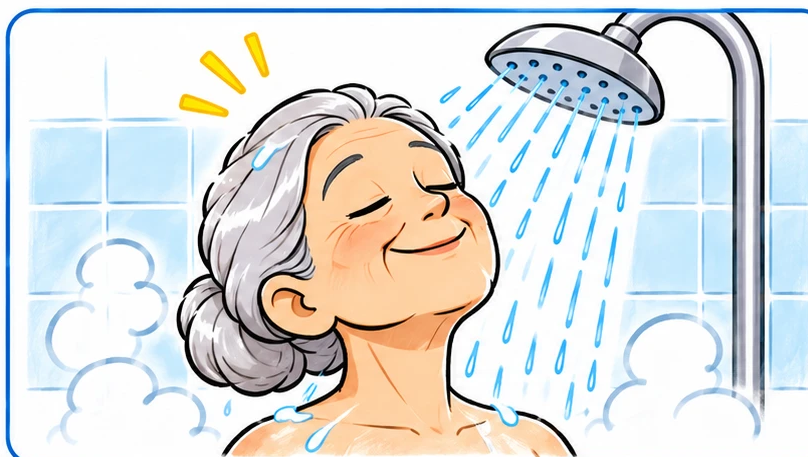
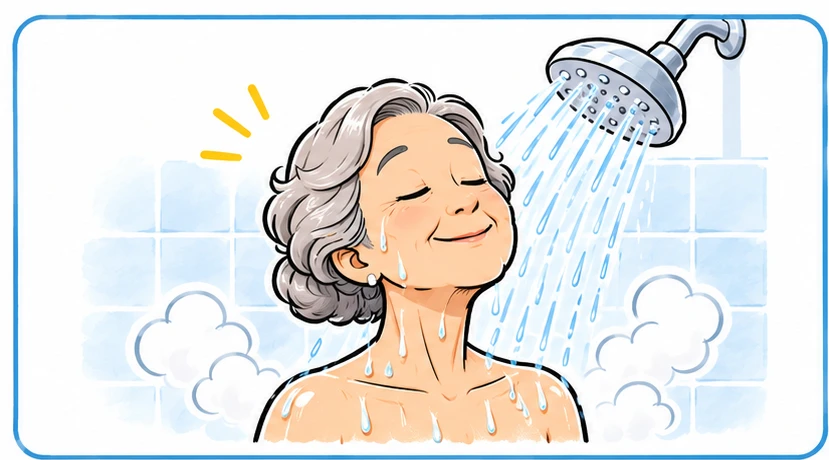
ducha_60: new part 1 scene sheets, retune overlays
Claude-Session: https://claude.ai/code/session_01D4mcJbxSFfSwpu6NteTqz4

diff --git a/projects/ducha_60/verdad1.html b/projects/ducha_60/verdad1.html
@@ -17,7 +17,7 @@ const bp=(x,y)=>[bl+x*bs, bt+y*bs];
 
 // 1 · costumbre: levantarse y entrar en la ducha
 {const B=Beat(C('nadie'),C('lavamos')); const p=Panel(B,'s_dawn',{from:[.25,.5,1.0],to:[.65,.55,1.14]});
- p.draw=(c,t)=>rays(c,t,{x:140,y:120});
+ p.draw=(c,t)=>rays(c,t,{x:215,y:128});
  Cap(B,'Una costumbre que <span class="hl">nadie cuestiona</span>',{cx:960,cy:965,size:72,t0:B.a+0.4,pill:true});}
 
 // 2 · cuanto más nos lavamos…
@@ -38,7 +38,7 @@ const bp=(x,y)=>[bl+x*bs, bt+y*bs];
 
 // 5 · al secarte, piernas tirantes
 {const B=Beat(C('imagina1'),C('picor1')); const p=Panel(B,'s_dry_leg',{from:[.4,.4,1.0],to:[.7,.7,1.2]});
- p.draw=(c,t)=>{if(t>B.a+3.4)sparks(c,t,{x:650,y:300,s:1.1});};
+ p.draw=(c,t)=>{if(t>B.a+3.4)sparks(c,t,{x:570,y:270,s:1.1});};
  Cap(B,'Al secarte: <span class="hl">piernas tirantes</span>',{cx:960,cy:965,size:74,t0:B.a+3.0,pill:true});}
 
 // 6 · un rato después, el picor
@@ -54,7 +54,7 @@ const bp=(x,y)=>[bl+x*bs, bt+y*bs];
 
 // 8 · ¿la edad? → observa cómo te duchas
 {const B=Beat(C('atribuirlo'),C('grasa')-1.2); const p=Panel(B,'s_mirror',{from:[.5,.5,1.0],to:[.35,.65,1.2]});
- p.draw=(c,t)=>{sparks(c,t,{x:345,y:300,s:1.0});};
+ p.draw=(c,t)=>{sparks(c,t,{x:340,y:300,s:1.0});};
  Cap(B,'No es solo la edad: <span class="hl">observa cómo te duchas</span>',{cx:960,cy:965,size:66,t0:C('observar'),pill:true});
  Cap(B,'¿La edad?',{cx:960,cy:965,size:70,t0:B.a+0.2,pill:true,t1:C('observar')-0.3});}
 
@@ -98,9 +98,9 @@ const bp=(x,y)=>[bl+x*bs, bt+y*bs];
 
 // 14 · poca actividad vs más actividad (split)
 {const B=Beat(C('apenas'),C('adaptarse'));
- Panel(B,'s_tea',{x:500,y:470,w:880,from:[.5,.5,1],to:[.45,.45,1.1]}).draw=(c,t)=>steam(c,t,{x:345,y:110,w:30,n:3,r:8,rise:60});
+ Panel(B,'s_tea',{x:500,y:470,w:880,from:[.5,.5,1],to:[.45,.45,1.1]}).draw=(c,t)=>steam(c,t,{x:300,y:125,w:30,n:3,r:8,rise:60});
  const g=Panel(B,'s_garden',{x:1420,y:470,w:880,from:[.5,.5,1],to:[.6,.45,1.12],t0:C('caminar')});
- g.draw=(c,t)=>{c.save();c.translate(600,250);c.rotate(Math.sin(t*1.6)*0.02);c.restore(); drops(c,t,{x:360,y:60,w:60,h:80,n:3,t0:C('caminar'),s:0.5,speed:0.7});};
+ g.draw=(c,t)=>{c.save();c.translate(600,250);c.rotate(Math.sin(t*1.6)*0.02);c.restore(); drops(c,t,{x:420,y:80,w:60,h:80,n:3,t0:C('caminar'),s:0.5,speed:0.7});};
  Cap(B,'Apenas suda,<br>pasa el día en casa',{cx:500,cy:900,size:58,t0:B.a+0.4,pill:true});
  Cap(B,'Camina, cuida el jardín,<br><span class="hl">suda más</span>',{cx:1420,cy:900,size:58,t0:C('jardin'),pill:true});
  Cut(B,'antonio_walk',{cx:1760,cy:1060,h:300,t0:C('caminar'),dir:'r',amp:6,period:0.7,tilt:2});}
@@ -117,7 +117,7 @@ const bp=(x,y)=>[bl+x*bs, bt+y*bs];
 
 // 16 · no significa dejar de lavarse
 {const B=Beat(C('nosignifica'),C('manos')-0.4); const p=Panel(B,'s_shower_soft',{from:[.5,.45,1.0],to:[.4,.5,1.12]});
- p.draw=(c,t)=>{water(c,t,{x0:600,y0:90,x1:520,y1:420,spread:220,n:28}); steam(c,t,{x:120,y:420});};
+ p.draw=(c,t)=>{water(c,t,{x0:590,y0:70,x1:470,y1:380,spread:220,n:28}); steam(c,t,{x:120,y:420});};
  Cap(B,'No significa <span class="hl">dejar de lavarse</span>',{cx:960,cy:965,size:74,t0:B.a+0.3,pill:true});}
 
 // 17 · zonas de atención diaria (body map)
@@ -142,7 +142,7 @@ const bp=(x,y)=>[bl+x*bs, bt+y*bs];
 
 // 19 · si disfrutas y tu piel está bien → sigue
 {const B=Beat(C('detalle'),C('breves')); const p=Panel(B,'s_tea',{from:[.4,.4,1.0],to:[.35,.3,1.12]});
- p.draw=(c,t)=>steam(c,t,{x:345,y:110,w:30,n:3,r:8,rise:60});
+ p.draw=(c,t)=>steam(c,t,{x:300,y:125,w:30,n:3,r:8,rise:60});
  Cap(B,'¿Te gusta a diario y tu piel está bien? <span class="hl">Sigue</span>',{cx:960,cy:965,size:60,t0:C('disfrutas')+0.5,pill:true});
  const s=Svg(B); Draw(B,s,tick(1700,200,2),{t0:C('disfrutas')+2.5,dur:0.4,stroke:'#22a35a',w:18});}
 
@@ -199,7 +199,7 @@ const bp=(x,y)=>[bl+x*bs, bt+y*bs];
 
 // 27 · mira tu vida cotidiana, no reglas ajenas  → teaser Verdad 2
 {const B=Beat(C('cotidiana')-0.2,C('verdad2'),{exit:'fade'});
- Panel(B,'s_tea',{x:520,y:440,w:820,from:[.5,.5,1],to:[.5,.5,1.06]}).draw=(c,t)=>steam(c,t,{x:345,y:110,w:30,n:3,r:8,rise:60});
+ Panel(B,'s_tea',{x:520,y:440,w:820,from:[.5,.5,1],to:[.5,.5,1.06]}).draw=(c,t)=>steam(c,t,{x:300,y:125,w:30,n:3,r:8,rise:60});
  Panel(B,'s_garden',{x:1400,y:440,w:820,from:[.5,.5,1],to:[.5,.5,1.06],t0:B.a+0.4});
  Cap(B,'Mira <span class="hl">tu vida diaria</span>',{cx:960,cy:860,size:84,t0:B.a+0.3});
  Cap(B,'no reglas ajenas',{cx:960,cy:980,size:62,t0:C('ajenas'),color:'#6a6f86'});}

diff --git a/projects/ducha_60/common.js b/projects/ducha_60/common.js
@@ -34,7 +34,7 @@ const NS='http://www.w3.org/2000/svg';
 const sv=(tag,attrs,parent)=>{const e=document.createElementNS(NS,tag);for(const k in attrs)e.setAttribute(k,attrs[k]);parent.appendChild(e);return e;};
 const rnd=i=>{const x=Math.sin(i*127.1+311.7)*43758.5453;return x-Math.floor(x);};
 const C=k=>{if(!(k in CUE))throw new Error('missing cue '+k);return CUE[k]-0.15;};   // beat lands 0.15 s before the word
-const IMG={"antonio_walk":[307,466],"bandage":[320,348],"barrier":[354,390],"basin":[373,387],"bathtub":[488,360],"body":[243,466],"bubble_bath":[326,390],"calendar":[377,370],"cane":[207,425],"clean_clothes":[351,335],"cleanser":[240,405],"cream_jar":[341,327],"cream_jar_hold":[289,454],"cream_tube":[235,389],"cream_tube2":[274,367],"dry_circle":[316,330],"foot":[359,421],"gel":[285,429],"grab_bar":[150,429],"handshower":[274,412],"hat_gloves":[403,382],"lemon_vinegar":[346,394],"lotion":[233,386],"mat":[387,264],"notebook":[360,403],"phone":[297,411],"rough_towel":[309,358],"s_dawn":[808,439],"s_dry_leg":[819,457],"s_garden":[828,458],"s_mirror":[819,439],"s_nurse":[828,441],"s_shower":[808,457],"s_shower_soft":[816,441],"s_tea":[816,458],"sandtimer":[245,356],"scratch_shin":[374,462],"shower_chair":[335,432],"shower_head":[315,379],"skin_block":[331,320],"soap":[302,304],"soft_towel":[371,355],"sponge":[377,405],"stethoscope":[283,410],"sweaty_shirt":[383,364],"tap":[365,295],"tea":[325,380],"thermo":[169,426],"think":[249,464],"tight_arm":[306,468],"timer":[318,323],"vaseline":[343,355],"washcloth":[348,271],"wave":[340,455]};
+const IMG={"antonio_walk":[307,466],"bandage":[320,348],"barrier":[354,390],"basin":[373,387],"bathtub":[488,360],"body":[243,466],"bubble_bath":[326,390],"calendar":[377,370],"cane":[207,425],"clean_clothes":[351,335],"cleanser":[240,405],"cream_jar":[341,327],"cream_jar_hold":[289,454],"cream_tube":[235,389],"cream_tube2":[274,367],"dry_circle":[316,330],"foot":[359,421],"gel":[285,429],"grab_bar":[150,429],"handshower":[274,412],"hat_gloves":[403,382],"lemon_vinegar":[346,394],"lotion":[233,386],"mat":[387,264],"notebook":[360,403],"phone":[297,411],"rough_towel":[309,358],"s_dawn":[829,467],"s_dry_leg":[828,460],"s_garden":[832,467],"s_mirror":[828,467],"s_nurse":[832,465],"s_shower":[829,460],"s_shower_soft":[831,465],"s_tea":[831,467],"sandtimer":[245,356],"scratch_shin":[374,462],"shower_chair":[335,432],"shower_head":[315,379],"skin_block":[331,320],"soap":[302,304],"soft_towel":[371,355],"sponge":[377,405],"stethoscope":[283,410],"sweaty_shirt":[383,364],"tap":[365,295],"tea":[325,380],"thermo":[169,426],"think":[249,464],"tight_arm":[306,468],"timer":[318,323],"vaseline":[343,355],"washcloth":[348,271],"wave":[340,455]};
 
 // ---------- beats (layers) ----------
 const beats=[];

diff --git a/projects/ducha_60/intro.html b/projects/ducha_60/intro.html
@@ -26,7 +26,7 @@ const PW=1560;
 
 // 4 · costumbre de décadas
 {const B=Beat(C('costumbre'),C('perjudicando')); const p=Panel(B,'s_dawn',{from:[.3,.5,1.0],to:[.6,.5,1.12]});
- p.draw=(c,t)=>rays(c,t,{x:140,y:120});
+ p.draw=(c,t)=>rays(c,t,{x:215,y:128});
  Cap(B,'Una costumbre <span class="hl">de décadas</span>',{cx:960,cy:965,size:76,t0:B.a+0.4,pill:true});}
 
 // 5 · perjudicando tu piel: skin block loses water
@@ -38,14 +38,14 @@ const PW=1560;
 
 // 6 · piernas más secas (dry leg + zoom bubble)
 {const B=Beat(C('notado'),C('pican')); const p=Panel(B,'s_dry_leg',{from:[.5,.5,1.0],to:[.75,.72,1.22]});
- p.draw=(c,t)=>{if(t>B.a+1.5)sparks(c,t,{x:650,y:300,s:1.1});};
+ p.draw=(c,t)=>{if(t>B.a+1.5)sparks(c,t,{x:570,y:270,s:1.1});};
  Cut(B,'dry_circle',{cx:1540,cy:560,h:430,t0:C('secas')-0.5,amp:5,tilt:.8});
  const s=Svg(B); Draw(B,s,arrow(1330,470,1180,630,-0.1),{t0:C('secas')-0.2,dur:0.45,stroke:'#e23b2e',w:10});
  Cap(B,'Piernas <span class="hl">más secas</span>',{cx:820,cy:965,size:76,t0:C('secas')-1.1,pill:true});}
 
 // 7 · picor en los brazos
 {const B=Beat(C('pican'),C('tirantez')+0.6); const p=Panel(B,'s_mirror',{from:[.4,.6,1.05],to:[.3,.7,1.25]});
- p.draw=(c,t)=>{sparks(c,t,{x:345,y:300,s:1.1}); sparks(c,t+0.3,{x:410,y:380,s:.9});};
+ p.draw=(c,t)=>{sparks(c,t,{x:340,y:300,s:1.1}); sparks(c,t+0.3,{x:365,y:385,s:.9});};
  Cap(B,'Te <span class="hl">pican</span> los brazos',{cx:960,cy:965,size:76,t0:B.a+0.2,pill:true});}
 
 // 8 · tirantez
@@ -129,6 +129,6 @@ const PW=1560;
 
 // 19 · empecemos: lo que siempre hemos creído
 {const B=Beat(C('empecemos'),C('v1')); const p=Panel(B,'s_shower_soft',{from:[.5,.4,1.0],to:[.45,.35,1.1]});
- p.draw=(c,t)=>{water(c,t,{x0:600,y0:90,x1:520,y1:420,spread:220,n:28}); steam(c,t,{x:120,y:420}); steam(c,t,{x:700,y:430,w:150,n:5});};
+ p.draw=(c,t)=>{water(c,t,{x0:590,y0:70,x1:470,y1:380,spread:220,n:28}); steam(c,t,{x:120,y:420}); steam(c,t,{x:700,y:430,w:150,n:5});};
  Cap(B,'Lo que <span class="hl">siempre hemos creído</span>…',{cx:960,cy:965,size:74,t0:B.a+0.6,pill:true});}
 </script></body></html>
